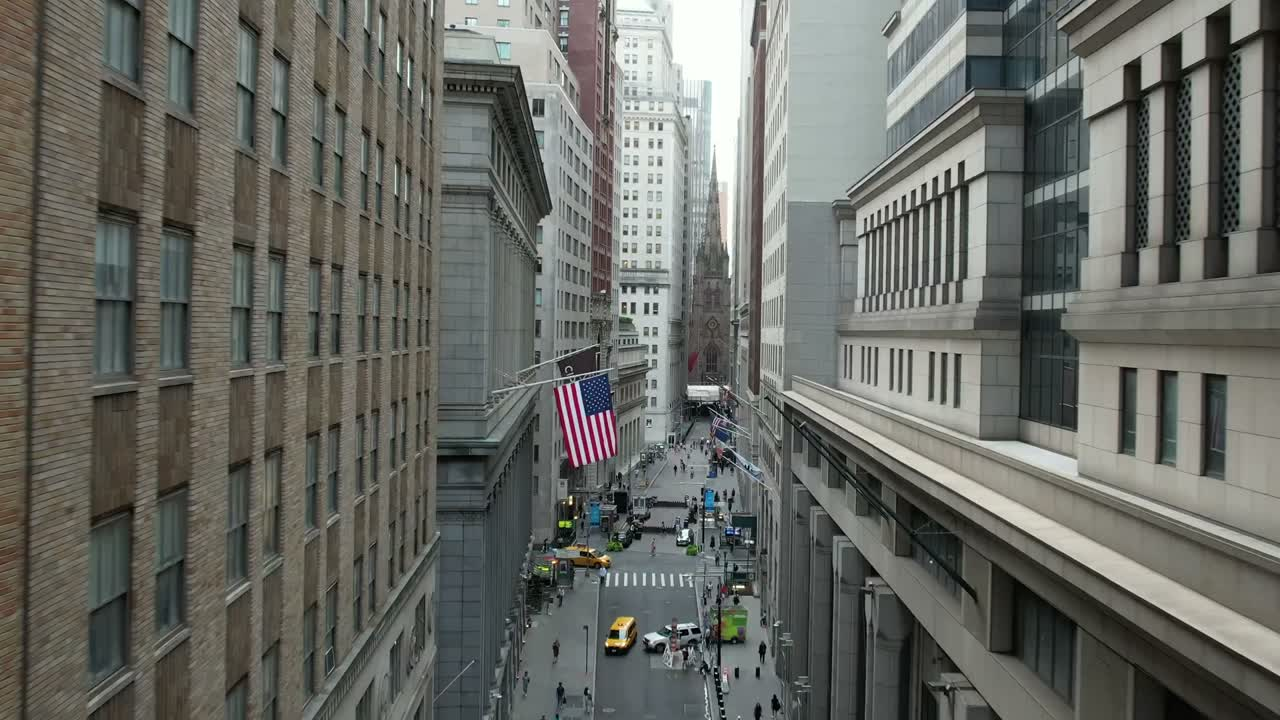
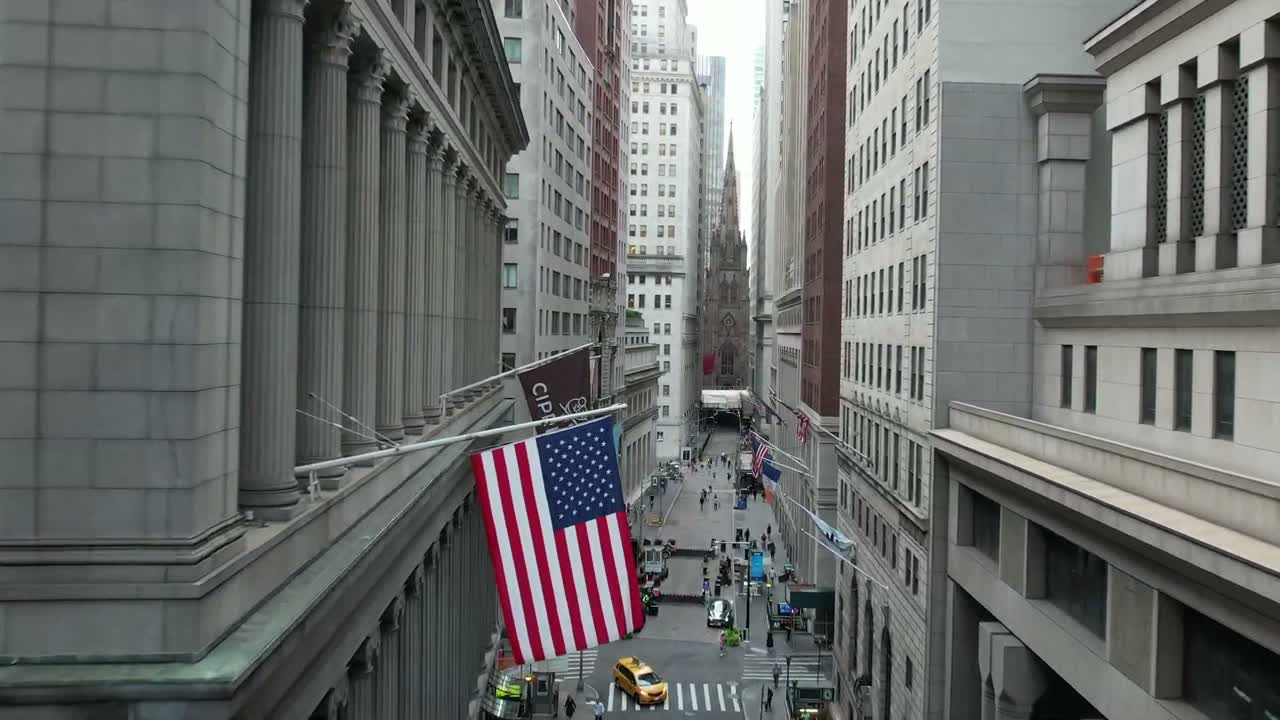
Open the hero on the flag shot (3s) instead of the approach shot
The film opens on a wide approach and only reaches the intended
opening composition -- US flag on the left, CIPRIANI banner above,
Trinity spire down the canyon -- at ~3s.

Applied at runtime rather than by trimming. The video's keyframes
sit at 0s and 5.005s, so a cut at 3s cannot be done by stream copy;
it would force a full re-encode, discarding the bit-identical
quality of the asset and writing a second ~84MB blob into history.
The file is therefore untouched and HERO_START_SECONDS carries the
offset.

The native loop attribute is removed as a consequence: it wraps to
0 and would replay the approach shot on every repeat, so the loop
is closed by hand on 'ended'. The seek only ever moves forward to
the mark, so it cannot pull playback backwards mid-film.

hero-poster.jpg regenerated from the 3s frame so the still shown
before decode matches the first played frame; manifest.json follows.

diff --git a/src/components/Hero/Hero.tsx b/src/components/Hero/Hero.tsx
@@ -35,6 +35,22 @@ const HERO_VIDEO_SRC = '/videos/signal-pro.mp4'
    scripts/extract-assets.mjs; manifest.json records both occurrences. */
 const HERO_POSTER_SRC = '/img/hero-poster.jpg'
 
+/* NOT legacy — a deliberate product change.
+
+   The film opens on a wide approach shot and only reaches the composition the
+   page should open on (the US flag hanging on the left, CIPRIANI banner above,
+   Trinity spire centred) at ~3s.
+
+   This is applied at runtime rather than by trimming the file. The video's
+   keyframes sit at 0s and 5.005s, so cutting at 3s cannot be done by stream
+   copy — it would force a full re-encode, losing the bit-identical quality the
+   asset currently has and writing a second ~84MB blob into git history.
+   Seeking costs nothing and keeps the start point tunable: change this number.
+
+   Because of the offset the native `loop` attribute is gone. It would wrap to
+   0 and replay the approach shot, so the loop is closed by hand below. */
+const HERO_START_SECONDS = 3
+
 /* legacy:604-608 — deeplink targets that are NOT ids in the ported tree, with
    the selector list the legacy script falls back to for each. */
 const FALLBACKS: Record<string, string[]> = {
@@ -98,6 +114,38 @@ export default function Hero() {
     const gestures = ['touchstart', 'pointerdown', 'click', 'keydown'] as const
     for (const ev of gestures) {
       window.addEventListener(ev, forcePlay, { once: true, passive: true })
+    }
+
+    /* ---- start offset + hand-rolled loop (see HERO_START_SECONDS) ----------
+       Only ever seeks FORWARD to the start mark, so it cannot yank playback
+       backwards once the film is running past it. */
+    const videoCleanups: Array<() => void> = []
+    for (const v of vids) {
+      const ensureStart = () => {
+        try {
+          if (v.currentTime < HERO_START_SECONDS - 0.05) v.currentTime = HERO_START_SECONDS
+        } catch {
+          /* seeking before metadata lands throws in some browsers */
+        }
+      }
+      const onEnded = () => {
+        try {
+          v.currentTime = HERO_START_SECONDS
+        } catch {
+          /* ignore */
+        }
+        const pr = v.play()
+        if (pr && pr.catch) pr.catch(() => {})
+      }
+      /* readyState >= HAVE_METADATA means duration is known and seeking is safe;
+         if the metadata already arrived the event will not fire again. */
+      if (v.readyState >= 1) ensureStart()
+      v.addEventListener('loadedmetadata', ensureStart)
+      v.addEventListener('ended', onEnded)
+      videoCleanups.push(() => {
+        v.removeEventListener('loadedmetadata', ensureStart)
+        v.removeEventListener('ended', onEnded)
+      })
     }
 
     /* ---- legacy:537-538 ---------------------------------------------------- */
@@ -281,6 +329,7 @@ export default function Hero() {
 
     return () => {
       for (const ev of gestures) window.removeEventListener(ev, forcePlay)
+      for (const fn of videoCleanups) fn()
       for (const fn of teardown) fn()
       for (const [a, h] of linkHandlers) a.removeEventListener('click', h)
       for (const [b, h] of bookHandlers) b.removeEventListener('click', h)
@@ -299,7 +348,6 @@ export default function Hero() {
             <video
               autoPlay
               muted
-              loop
               playsInline
               preload="auto"
               disablePictureInPicture
@@ -313,7 +361,6 @@ export default function Hero() {
             <video
               autoPlay
               muted
-              loop
               playsInline
               preload="auto"
               disablePictureInPicture
